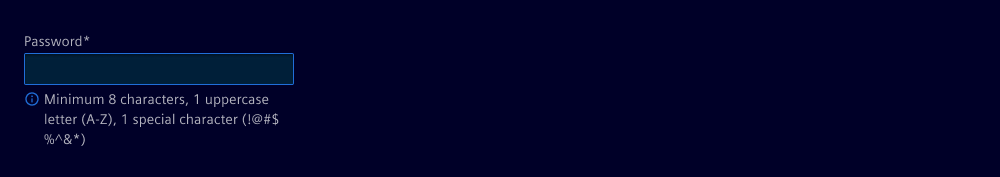
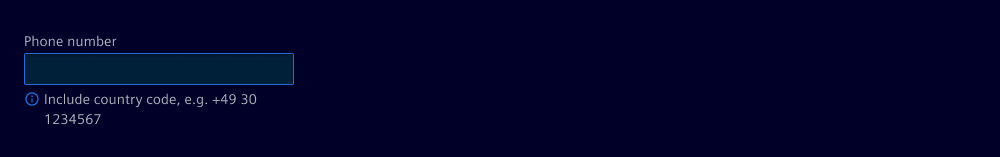
Doc: review comments implemented

Changed region(s): [[0.0, 0.4586, 0.31, 0.8153], [0.0, 0.2038, 0.31, 0.3567]]

diff --git a/docs/guidelines/language/forms-and-form-fields/feedback-and-validation.md b/docs/guidelines/language/forms-and-form-fields/feedback-and-validation.md
@@ -12,13 +12,13 @@ description: 'Field input validation gives users feedback on their input to ensu
 
 Provide any requirements first as helper / info text to avoid users falling immediately into invalid states. See [Forms validation (component)](../../../components/forms-validation/guide.md).
 
-![UI example showing a field label Password* with the helper text Minimum 8 characters, 1 uppercase letter (A-Z), 1 special character (!@#$%^&*).](https://www.figma.com/design/wEptRgAezDU1z80Cn3eZ0o/iX-Documentation-illustrations?node-id=8399-8833&t=EjTZKAJDhIkv5ICF-4)
+![UI example showing a field label Phone number with the helper text Include country code, e.g. +49 30 1234567](https://www.figma.com/design/wEptRgAezDU1z80Cn3eZ0o/iX-Documentation-illustrations?node-id=8399-8833&t=EjTZKAJDhIkv5ICF-4)
 
 <div class="dos-and-donts">
   <div class="dos">
     <ul aria-label="Recommended practices">
-      <li>Field label: Password*<br/>
-      Helper text: Minimum 8 characters, 1 uppercase letter (A-Z), 1 special character (!@#$%^&*)</li>
+      <li>Field label: Phone number<br/>
+      Helper text: Include country code, e.g. +49 30 1234567</li>
     </ul>
   </div>
   <div class="donts">
@@ -73,7 +73,7 @@ Provide invalid text when the user input has not met the specified requirements 
 
 Provide warning text when there is a critical issue or a suggestion related to the success or failure of the users' input and explain any consequences clearly.
 
-![UI example showing a field label Upload file with the warning text Upload max 10 MB. Select another file.](https://www.figma.com/design/wEptRgAezDU1z80Cn3eZ0o/iX-Documentation-illustrations?node-id=8399-8594&t=EjTZKAJDhIkv5ICF-4)
+![UI example showing a field Upload file with the warning text Upload max 10 MB. Select another file.](https://www.figma.com/design/wEptRgAezDU1z80Cn3eZ0o/iX-Documentation-illustrations?node-id=8484-6760&t=DqVZwQbqqLyQk2S8-4)
 
 <div class="dos-and-donts">
   <div class="dos">

diff --git a/docs/guidelines/language/forms-and-form-fields/overview.md b/docs/guidelines/language/forms-and-form-fields/overview.md
@@ -10,7 +10,7 @@ description: 'Form and text input fields provide essential context for users to 
 
 #
 
-We've added the labeled iX component here to guide you though this section with the terms we use throughout the Forms and form field chapters. See [Input (component)](../../../components/input/guide.md) and [Textarea (component)](../../../components/textarea/guide.md).
+The labeled iX component is here to guide you through this section with the terms we use throughout the Forms and form field chapters. See [Input (component)](../../../components/input/guide.md) and [Textarea (component)](../../../components/textarea/guide.md).
 
 ![UI form field numbered example: 1) Label Username*, 2) Text area placeholder Enter user name, 3) Helper text Letters and numbers only, 4) Asterisk indicates required field and 5) Character counter shows 0/25.](https://www.figma.com/design/wEptRgAezDU1z80Cn3eZ0o/iX-Documentation-illustrations?node-id=8439-2549&t=AvEG5nW65SMQ8nvR-4)
 

diff --git a/docs/guidelines/language/writing-style-guide-getting-started.md b/docs/guidelines/language/writing-style-guide-getting-started.md
@@ -32,7 +32,7 @@ Discover how we address formatting themes such as writing addresses, dates, meas
 
 ## Forms and form fields
 
-To ensure a smooth experience, every form should provide clear guidance and immediate feedback. This section outlines how to use concise form field labels, helper text, and specific validation messages to help users complete forms effortlessly. [Forms and form fields](../language/forms-and-form-fields/overview.md)
+Every form should provide clear guidance and immediate feedback to ensure a smooth experience. This section outlines how to use concise form field labels, helper texts, and specific validation messages to help users complete forms effortlessly. [Forms and form fields](../language/forms-and-form-fields/overview.md)
 
 ## Menu functions and UI labels
 
